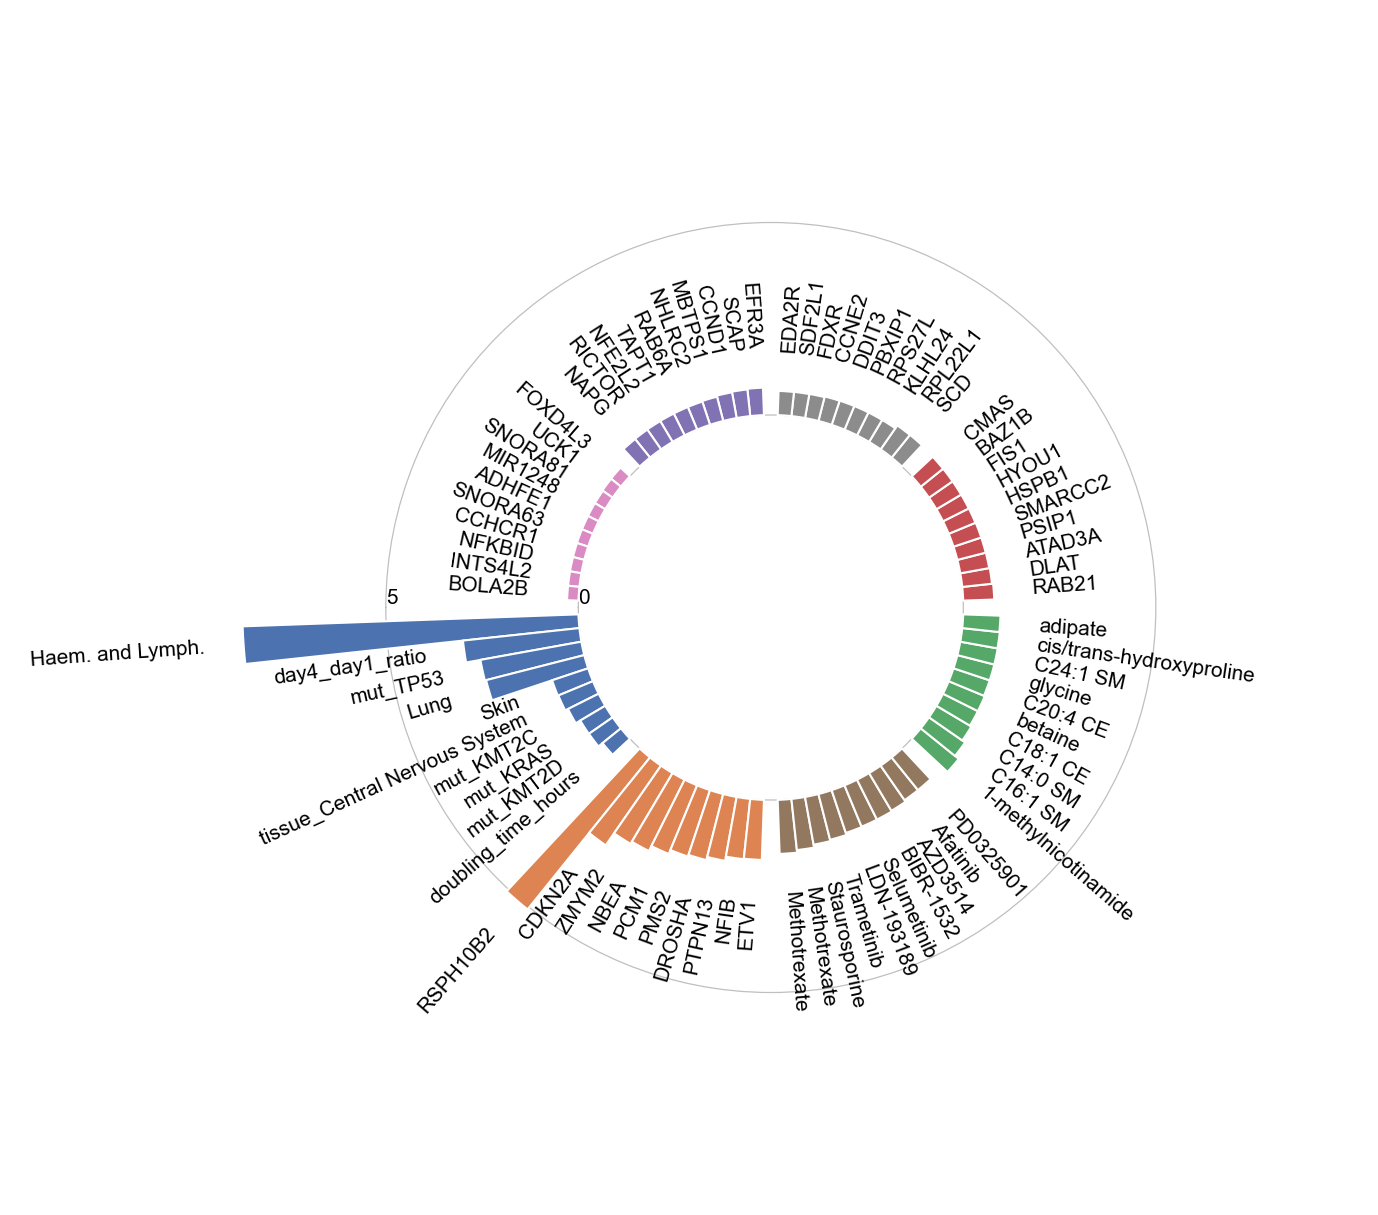
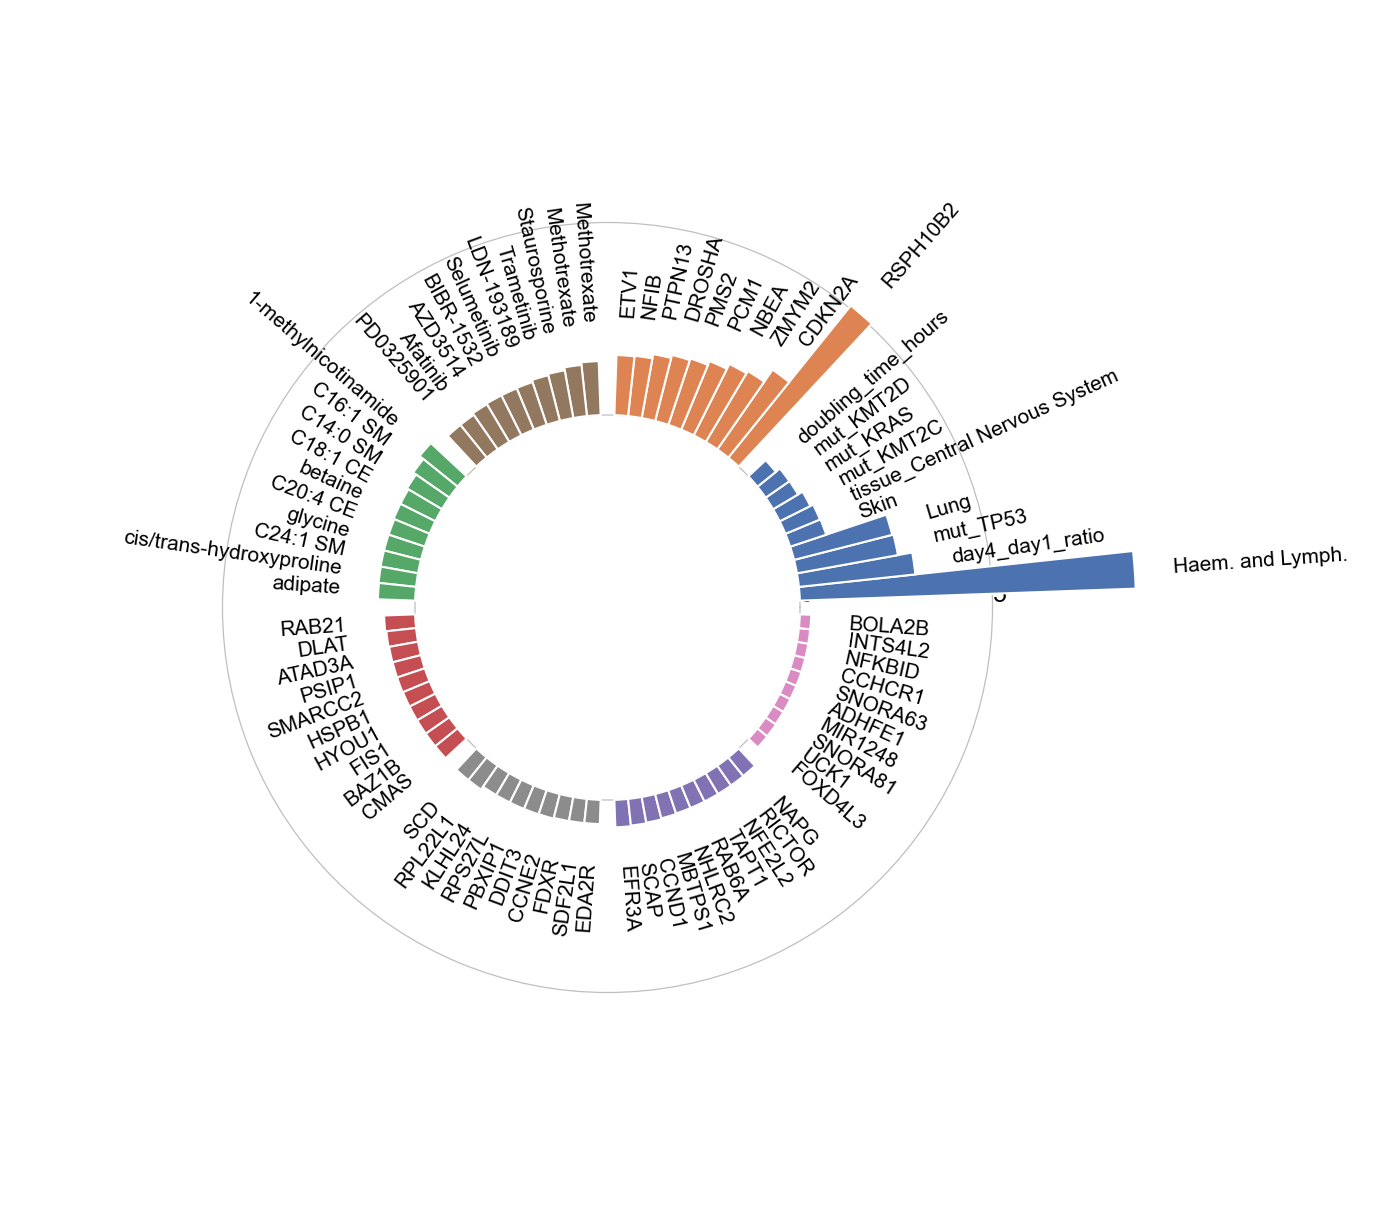
minor change to the circular plot

diff --git a/PhenPred/vae/CircularPlot.py b/PhenPred/vae/CircularPlot.py
@@ -10,7 +10,7 @@ from PhenPred.vae import plot_folder, data_folder
 def get_label_rotation(angle, offset):
     # Rotation must be specified in degrees :(
     rotation = np.rad2deg(angle + offset)
-    if angle <= np.pi/2 or angle >= 3*np.pi/2:
+    if np.pi / 2 <= angle <= 3 * np.pi / 2:
         alignment = "right"
         rotation = rotation + 180
     else:
@@ -96,7 +96,7 @@ if __name__ == "__main__":
     # Determines where to place the first bar.
     # By default, matplotlib starts at 0 (the first bar is horizontal)
     # but here we say we want to start at pi/2 (90 deg)
-    OFFSET = np.pi
+    OFFSET = 0
 
     # Obtaining the right indexes is now a little more complicated
     offset = 0
